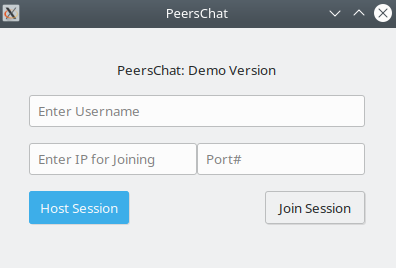
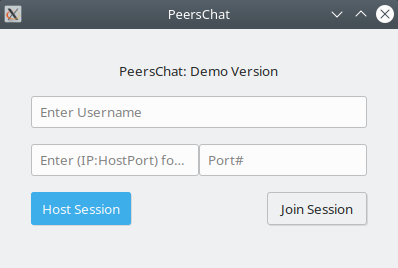
Removed CLI-mode from production Added room image, updated lobby image

diff --git a/src/PeersChat.cpp b/src/PeersChat.cpp
@@ -10,7 +10,6 @@ class PeersChat
 		PeersChatNetwork network;
 		APeer audio;
 		PC_GuiHandler GUI;
-		bool useGUI = true;
 };
 
 PeersChatNetwork *Network = NULL;
@@ -25,68 +24,7 @@ int main(const int argc, char *argv[])
 	Network = &(pchat->network);
 	Audio = &(pchat->audio);
 
-	if(argc > 1)
-	{
-		pchat->useGUI = false;
-		int choice;
-		while((choice = getopt(argc,argv,"hj:u:")) != -1)
-		{
-			switch(choice)
-			{
-				case 'h': // host a room
-					pchat->network.host();
-					break;
-				case 'j': // join a room, need an address
-//					pchat->network.join(optarg);
-					break;
-				case 'u': // enter a username
-					pchat->network.setMyName(optarg);
-					break;
-				default:
-					return EXIT_FAILURE;
-			}
-		}
-
-		while(true)
-		{
-			// Print Users
-			for(int i = 0; i < pchat->network.getNumberPeers(); ++i)
-				std::cout << i << ": " << pchat->network[i]->getName() << '\n';
-
-			// Grab user input for other functions (volume, kick, leave)
-			std::string input;
-			getline(std::cin,input);
-
-			if(input == "q")
-			{
-				pchat->network.disconnect();
-				break;
-			}
-
-			if(input == "k") // -k (user)
-			{
-				// Kick someone
-			}
-
-			if(input == "v") // -v (+/- num)
-			{
-				//set volume
-//				pchat->audio.setOutputVolume((float) input); // still needs string parsing
-			}
-
-			if(input == "m") // -m (user)
-			{
-				//mute someone
-				pchat->audio.setMuteMic(true);
-			}
-
-		}
-	}
-	else
-	{
-		// std::cout << "GUI mode" << std::endl;
-		pchat->GUI.runGui(argc,argv);
-	}
+	pchat->GUI.runGui(argc,argv);
 
 	return EXIT_SUCCESS;
 }

diff --git a/README.md b/README.md
@@ -56,15 +56,8 @@ $ make
 $ ./PeersChat
 ```
 
-##### GUI-mode
+##### GUI
 <p align="left">
   <img src="./Release Documents/images/lobby.png" title="PeersChat Lobby" alt="PeersChat Lobby">
   <img src="./Release Documents/images/room.png" title="PeersChat Room" alt="PeersChat Room">
 </p>
-
-##### CLI-mode
-Running the PeersChat application without flags will open up the GUI-mode of this application. To run with **CLI-mode**, add any combination of arguments following the execute command.
-```bash
-./PeersChat username [-j address:port]
-```
-Running the application only inputting a username will create a room with you as the host. To join a room, add the -j flag followed by the address of the room you want to join.
